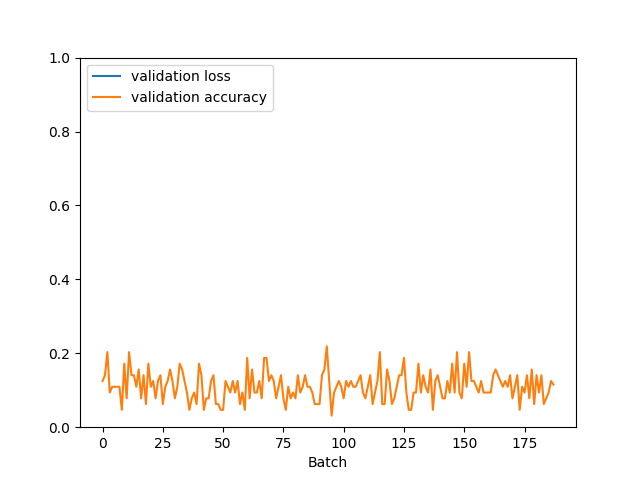
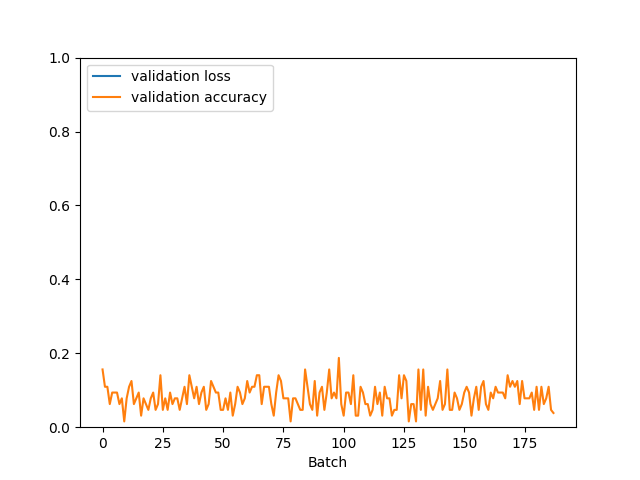
less neurons in custom model

Changed region(s): [[0.1562, 0.7188, 0.875, 0.875]]

diff --git a/deep_learning/util.py b/deep_learning/util.py
@@ -5,21 +5,20 @@ IMG_SIZE = 128
 DISP_RES = 1080//2
 
 # Model Paths
-#model_path = "../models/classifier.pth"
-model_path = "../models/resnet18_classifier_251.pth"
-#model_path = "../models/classifier_251.pth"
-onnx_path = "../models/resnet18_classifier_251.onnx"
-#onnx_path = "../models/classifier_251.onnx"
-cpp_model_path = "../models/resnet18_classifier_251.ptl"
-#cpp_model_path = "../models/classifier_251.ptl"
+model_path = "../models/classifier_251.pth"
+#model_path = "../models/resnet18_classifier_251.pth"
+onnx_path = "../models/classifier_251.onnx"
+#onnx_path = "../models/resnet18_classifier_251.onnx"
+cpp_model_path = "../models/classifier_251.ptl"
+#cpp_model_path = "../models/resnet18_classifier_251.ptl"
 #classes_path = "../models/classes.json"
 classes_path = "../models/classes_251.json"
 
 # plot paths
 #train_plot = "../plots/training_stats.png"
 #eval_plot = "../plots/evaluation_stats.png"
-train_plot = "../plots/training_stats_res251.png"
-eval_plot = "../plots/evaluation_stats_res251.png"
+train_plot = "../plots/training_stats_251.png"
+eval_plot = "../plots/evaluation_stats_251.png"
 
 # Data Paths
 base_dir = "../data/"

diff --git a/deep_learning/train.py b/deep_learning/train.py
@@ -11,14 +11,14 @@ def train(model, images, labels, classes):
   loss_function = nn.CrossEntropyLoss()
   #lr = 1e-4  # full dataset
   #lr = 1e-3  # food-101
-  lr = 1e-4   # food-241
+  lr = 1e-4   # food-251
   optim = torch.optim.Adam(model.parameters(), lr=lr, weight_decay=1e-5)
 
   losses, accuracies = [], []
-  BS = 256
+  BS = 128
   #epochs = 250 # full dataset
   #epochs = 100 # food-101
-  epochs = 20   # food-251
+  epochs = 150  # food-251
 
   try:
     for epoch in range(epochs):
@@ -117,8 +117,8 @@ if __name__ == '__main__':
   #writer.add_image('food_images', img_grid)
 
   # train
-  #model = FoodClassifier(len(classes)).to(device)
-  model = init_resnet(len(classes), False, IMG_SIZE, device)
+  model = FoodClassifier(len(classes)).to(device)
+  #model = init_resnet(len(classes), False, IMG_SIZE, device)
   model = train(model, images, labels, classes)
   save_model(model, model_path)
 

diff --git a/deep_learning/model.py b/deep_learning/model.py
@@ -24,9 +24,9 @@ class FoodClassifier(nn.Module):
     self.dropout = nn.Dropout(0.5)
 
     # Fully Connected Layers (Classifier)
-    self.fc1 = nn.Linear(256 * 12 * 12, 128)
-    self.bn1 = nn.BatchNorm1d(num_features=128)
-    self.fc2 = nn.Linear(128, self.n_classes)
+    self.fc1 = nn.Linear(256 * 12 * 12, 64)
+    self.bn1 = nn.BatchNorm1d(num_features=64)
+    self.fc2 = nn.Linear(64, self.n_classes)
 
   def forward(self, x):
     x = self.pool(F.relu(self.conv2_bn1(self.conv1(x))))
